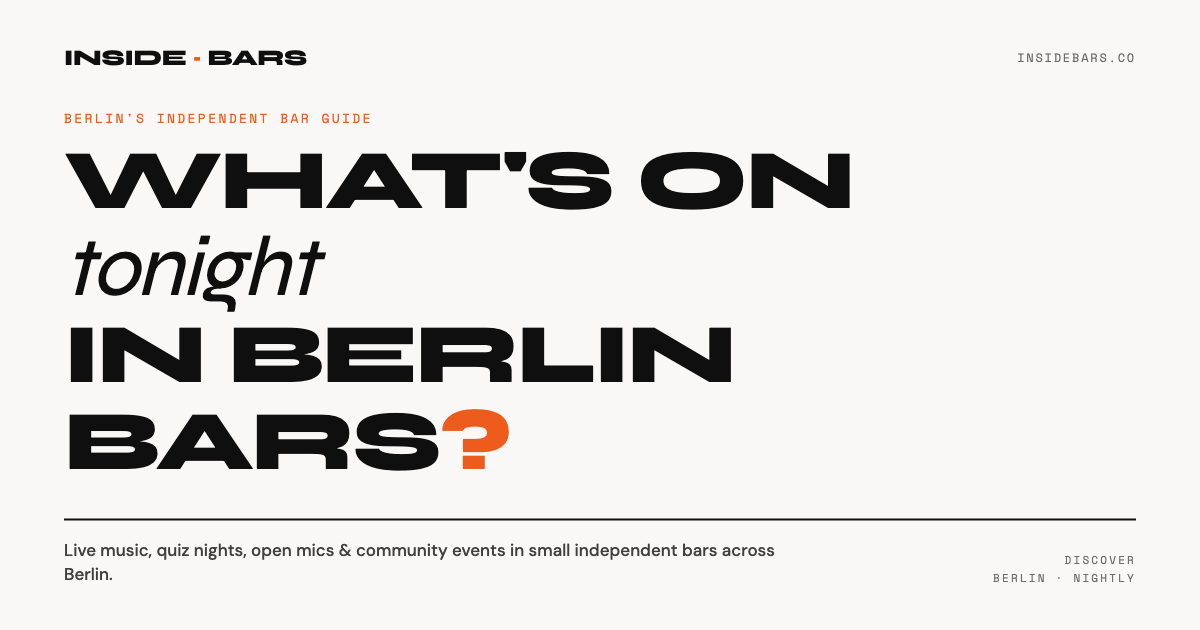
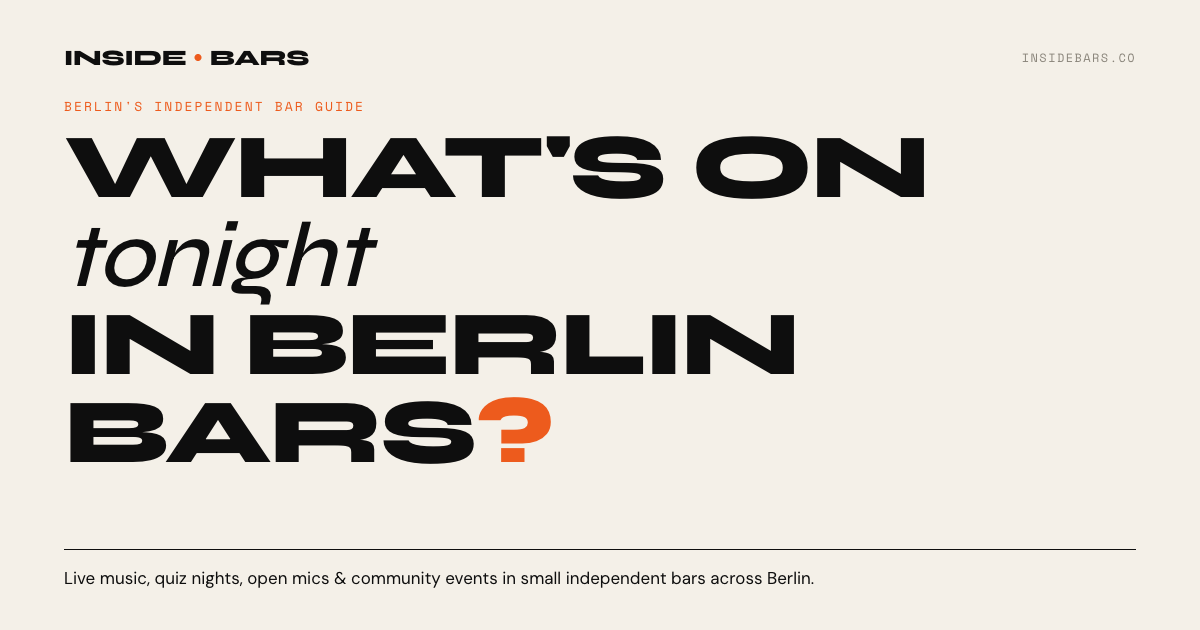
feat: og-image-layout aufgeraeumt — subtitle einzeilig, discover-block entfernt

diff --git a/index.html b/index.html
@@ -14,7 +14,7 @@
     <meta property="og:site_name" content="Inside Bars" />
     <meta property="og:title" content="Inside Bars — Discover events in Berlin bars" />
     <meta property="og:description" content="Find live music, quiz nights, open mics, and community events in small independent bars across Berlin." />
-    <meta property="og:image" content="https://insidebars.co/og-image.png?v=2" />
+    <meta property="og:image" content="https://insidebars.co/og-image.png?v=3" />
     <meta property="og:image:width" content="1200" />
     <meta property="og:image:height" content="630" />
     <meta property="og:image:type" content="image/png" />
@@ -23,7 +23,7 @@
     <meta name="twitter:card" content="summary_large_image" />
     <meta name="twitter:title" content="Inside Bars — Discover events in Berlin bars" />
     <meta name="twitter:description" content="Find live music, quiz nights, open mics, and community events in small independent bars across Berlin." />
-    <meta name="twitter:image" content="https://insidebars.co/og-image.png?v=2" />
+    <meta name="twitter:image" content="https://insidebars.co/og-image.png?v=3" />
   </head>
 
   <body>
